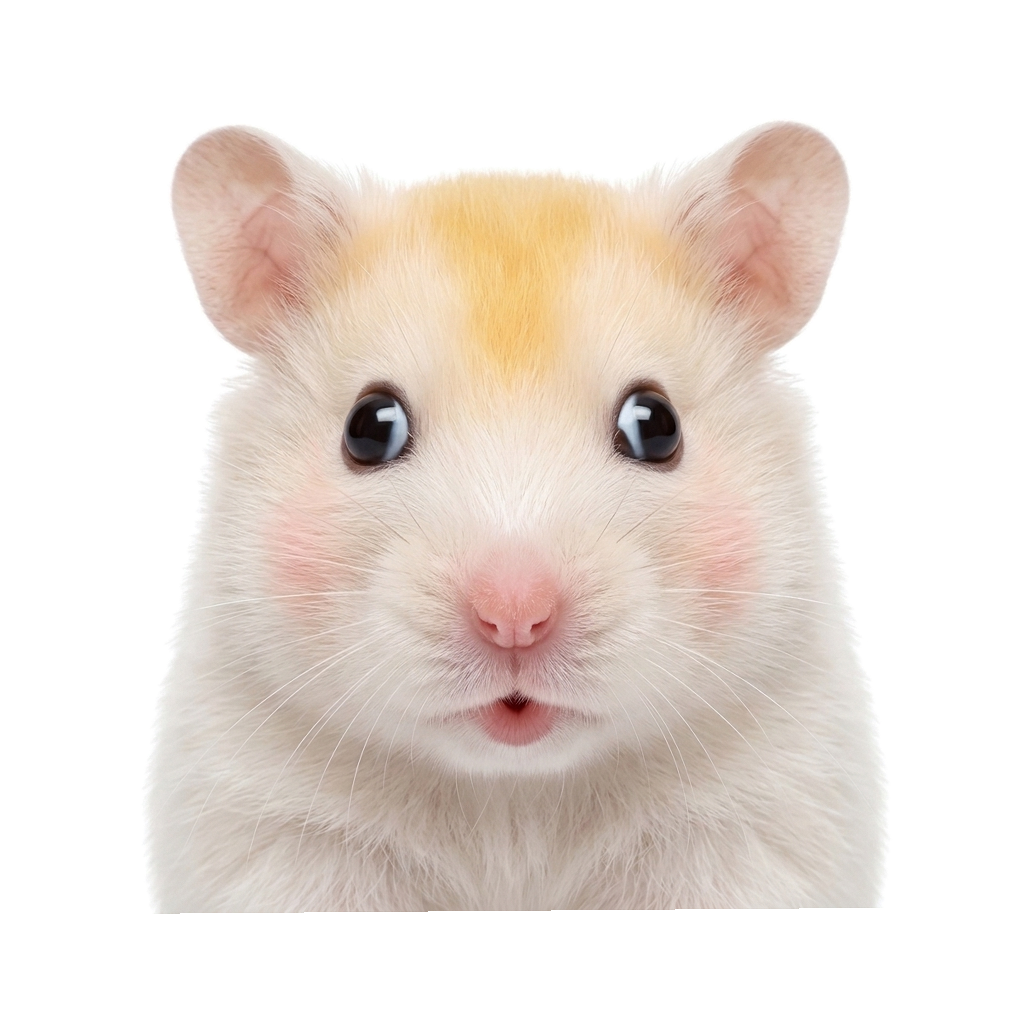
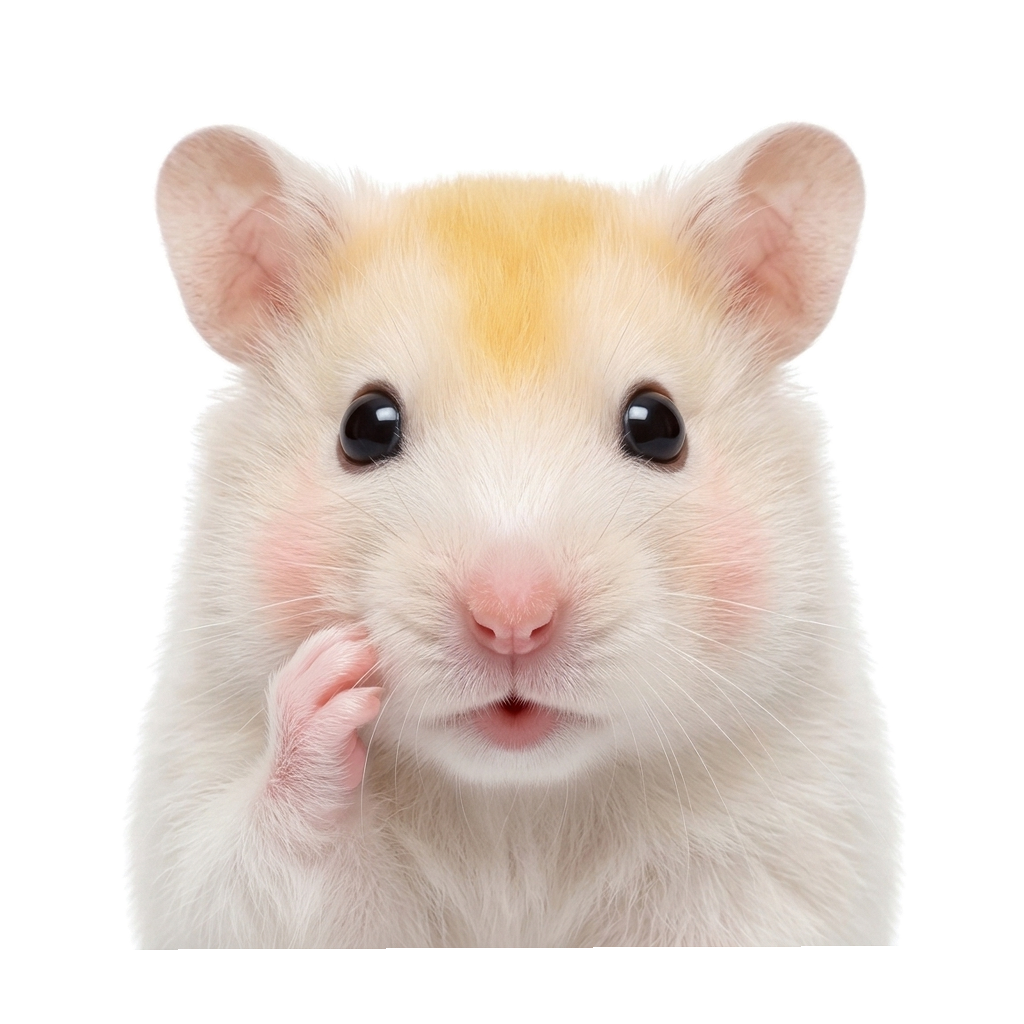
fix(assets): replace photorealistic hamster #6 whistle with natural cute boba-eye version

diff --git a/process_real_hamster_pack.py b/process_real_hamster_pack.py
@@ -1,5 +1,5 @@
 # -*- coding: utf-8 -*-
-"""
+r"""
 Post-processes the 7 photorealistic Hamster ("방구 햄찌") images into:
   - 1024x1024 transparent RGBA PNGs in `c:\bgbb\assets\expressions_real\`
   - Exact eye-coordinate alignment on #1, #3, #4, #6, #7 to (372, 430) & (652, 430)
